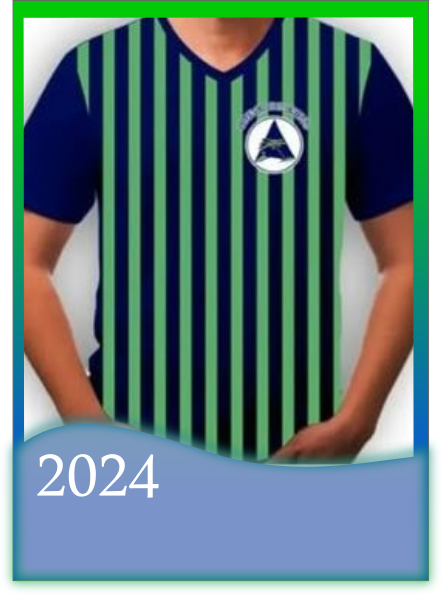
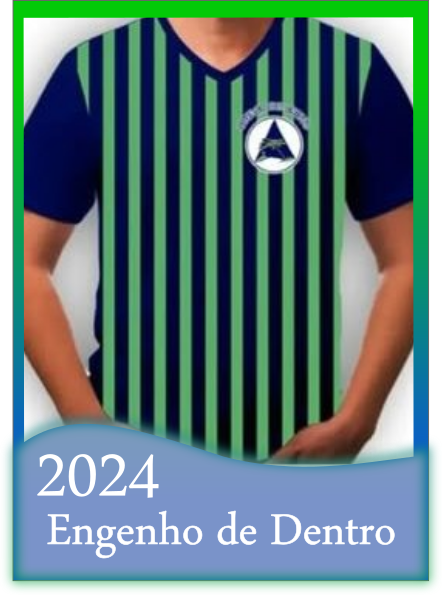
ajustes 24-25-26

Changed region(s): [[0.1176, 0.8471, 0.5882, 0.9378], [0.6176, 0.8471, 0.9118, 0.9378]]

diff --git a/src/constants/anos.js b/src/constants/anos.js
@@ -37,6 +37,8 @@ import foto20 from '../assets/imgCarrossel/rect20.png'
 import foto23 from '../assets/imgCarrossel/rect23.png'
 import foto24 from '../assets/imgCarrossel/rect24.png'
 import foto25 from '../assets/imgCarrossel/rect25.png'
+import foto26 from '../assets/imgCarrossel/rect26.png'
+
 
 
 
@@ -82,6 +84,8 @@ const anos = [
   { nome: "2023", src: foto23, disabled: true }, 
   { nome: "2024", src: foto24, disabled: true }, 
   { nome: "2025", src: foto25, disabled: true }, 
+  { nome: "2026", src: foto26, disabled: true }, 
+
 ];
 
 
